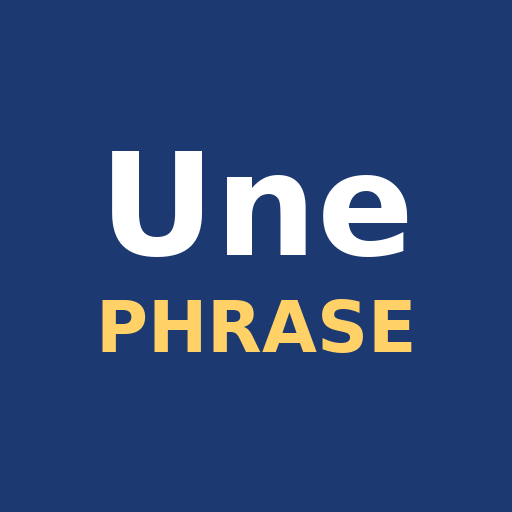
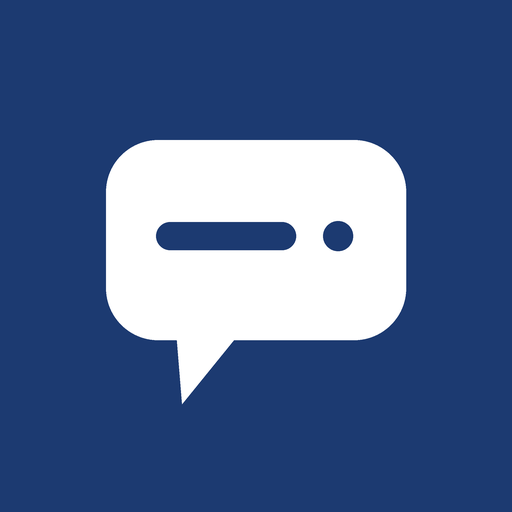
v1.31.0: 앱 개명 Une Phrase → One Phrase + 새 말풍선 아이콘
- 워드마크·title·og·공유 표기를 One Phrase로, 주소 표기는 one-phrase로 교체
- 아이콘: 파랑 둥근 사각형 + 흰 말풍선 + 파란 한 줄 선·마침표 마크 (소스 icons/icon.svg, PNG 4종·og-image 재생성)
- 헤더·푸터 로고 타일의 U 글자를 인라인 SVG 마크로 교체
- 내부 식별자(저장 키·IndexedDB·GoatCounter 코드)는 유지
- 테스트 366 PASS

Changed region(s): [[0.1875, 0.25, 0.8125, 0.7812], [0.6875, 0.375, 0.75, 0.4062]]

diff --git a/index.html b/index.html
@@ -8,20 +8,20 @@
 <link rel="apple-touch-icon" href="./icons/apple-touch-icon.png">
 <meta name="mobile-web-app-capable" content="yes">
 <meta name="apple-mobile-web-app-capable" content="yes">
-<title>Une Phrase — 한 문장 프랑스어 | 켜자마자 한 문장, TEF Canada</title>
+<title>One Phrase — 한 문장 프랑스어 | 켜자마자 한 문장, TEF Canada</title>
 <meta name="description" content="고르는 고민 없이, 켜자마자 미리 만들어진 프랑스어 한 문장을 읽고·따라 쓰고·가리고 쓰며 공부하는 앱. TEF Canada 전 영역 연결.">
-<meta property="og:title" content="Une Phrase — 한 문장 프랑스어">
+<meta property="og:title" content="One Phrase — 한 문장 프랑스어">
 <meta property="og:description" content="켜자마자 한 문장. TEF Canada와 일상 프랑스어를 3단계로 공부하는 앱.">
-<meta property="og:url" content="https://sidebatch.github.io/une-phrase/">
+<meta property="og:url" content="https://sidebatch.github.io/one-phrase/">
 <meta property="og:type" content="website">
 <meta property="og:locale" content="ko_KR">
-<meta property="og:image" content="https://sidebatch.github.io/une-phrase/og-image.png">
+<meta property="og:image" content="https://sidebatch.github.io/one-phrase/og-image.png">
 <meta property="og:image:width" content="1200">
 <meta property="og:image:height" content="630">
 <meta name="twitter:card" content="summary_large_image">
-<meta name="twitter:title" content="Une Phrase — 한 문장 프랑스어">
+<meta name="twitter:title" content="One Phrase — 한 문장 프랑스어">
 <meta name="twitter:description" content="켜자마자 한 문장. TEF Canada와 일상 프랑스어를 3단계로 공부하는 앱.">
-<meta name="twitter:image" content="https://sidebatch.github.io/une-phrase/og-image.png">
+<meta name="twitter:image" content="https://sidebatch.github.io/one-phrase/og-image.png">
 <script>
 /* 테마 조기 적용: 저장된 테마를 첫 페인트 전에 세팅해 새로고침 깜빡임을 막는다. 읽기 실패 시 라이트. */
 (function(){ try{
@@ -92,6 +92,7 @@ button:focus-visible,summary:focus-visible{outline:2px solid var(--blue-text);ou
 .masthead{border:0;border-radius:var(--r-xl);padding:var(--sp4) var(--sp4) 13px;background:linear-gradient(180deg,var(--mast-a) 0%,var(--mast-b) 92%);margin-bottom:2px;box-shadow:var(--shadow)}
 .brandrow{display:flex;align-items:center;gap:9px}
 .logo{display:inline-flex;align-items:center;justify-content:center;width:34px;height:34px;flex:0 0 auto;border-radius:var(--r-sm);background:var(--blue);color:#fff;font-size:19px;font-weight:900;line-height:1;box-shadow:inset 0 -3px 0 rgba(0,0,0,.22)}
+.logo svg{width:23px;height:23px;display:block}
 .wordmark{flex:1;min-width:0;font-weight:900;color:var(--blue-text);letter-spacing:.14em;font-size:15px;white-space:nowrap;overflow:hidden}
 .profilebtn{flex:0 0 auto;width:38px;height:38px;border-radius:50%;border:1px solid var(--line-soft);background:var(--soft);color:var(--avatar-ink);font-size:16px;font-weight:900;cursor:pointer;font:inherit;display:inline-flex;align-items:center;justify-content:center;padding:0;box-shadow:var(--shadow);transition:transform .12s var(--ease)}
 .profilebtn:active{transform:scale(.94)}
@@ -273,6 +274,7 @@ textarea:focus,input[type=text]:focus{border-color:var(--blue-text);box-shadow:v
 footer{margin-top:var(--sp6);border-top:1px solid var(--line-soft);padding:20px 16px 0;text-align:center}
 .footbrand{display:flex;align-items:center;justify-content:center;gap:8px}
 .footlogo{display:inline-flex;align-items:center;justify-content:center;width:24px;height:24px;border-radius:7px;background:var(--blue);color:#fff;font-size:13px;font-weight:900;line-height:1}
+.footlogo svg{width:15px;height:15px;display:block}
 .footword{font-weight:900;color:var(--blue-text);letter-spacing:.1em;font-size:13.5px}
 .footko{font-size:13px;color:var(--sub);font-weight:700}
 .footmeta{margin-top:var(--sp2);font-size:12.5px;color:var(--sub)}
@@ -296,7 +298,7 @@ summary{font-weight:800;cursor:pointer}
 <body>
 <div class="wrap">
 <header class="masthead">
-<div class="brandrow"><span class="logo" aria-hidden="true">U</span><span class="wordmark">UNE PHRASE</span><button class="profilebtn" id="profileBtn" aria-label="내 정보" aria-haspopup="dialog"><svg viewBox="0 0 24 24" fill="none" stroke="currentColor" stroke-width="1.9" stroke-linecap="round" stroke-linejoin="round" aria-hidden="true"><circle cx="12" cy="8" r="3.6"/><path d="M5.2 19.8c.8-3.6 3.4-5.4 6.8-5.4s6 1.8 6.8 5.4"/></svg></button><button class="menubtn" id="menuBtn" aria-haspopup="dialog" aria-expanded="false">☰ 메뉴</button></div>
+<div class="brandrow"><span class="logo" aria-hidden="true"><svg viewBox="0 0 24 24" aria-hidden="true"><rect x="2.4" y="4.2" width="19.2" height="12.8" rx="3.4" fill="#fff"/><polygon points="6.1,16.6 9.9,16.6 6.3,21" fill="#fff"/><rect x="5.6" y="9.55" width="8.8" height="1.9" rx=".95" fill="#1C3A71"/><circle cx="17.3" cy="10.5" r=".95" fill="#1C3A71"/></svg></span><span class="wordmark">ONE PHRASE</span><button class="profilebtn" id="profileBtn" aria-label="내 정보" aria-haspopup="dialog"><svg viewBox="0 0 24 24" fill="none" stroke="currentColor" stroke-width="1.9" stroke-linecap="round" stroke-linejoin="round" aria-hidden="true"><circle cx="12" cy="8" r="3.6"/><path d="M5.2 19.8c.8-3.6 3.4-5.4 6.8-5.4s6 1.8 6.8 5.4"/></svg></button><button class="menubtn" id="menuBtn" aria-haspopup="dialog" aria-expanded="false">☰ 메뉴</button></div>
 <h1>한 문장 프랑스어</h1>
 <div class="progress" id="progressArea">
 <div class="progress-top"><span id="progressLine">불러오는 중…</span><span class="todaychip" id="todayChip">오늘 0문장</span></div>
@@ -309,7 +311,7 @@ summary{font-weight:800;cursor:pointer}
 <div class="menubackdrop" id="menuBackdrop"></div>
 <div class="menupanel" role="dialog" aria-modal="true" aria-label="메뉴">
 <div class="menuhandle" aria-hidden="true"></div>
-<div class="menuhead"><span class="menuword">UNE PHRASE</span></div>
+<div class="menuhead"><span class="menuword">ONE PHRASE</span></div>
 <button class="menurow on" data-menu="study"><span class="menutile t-study" aria-hidden="true"><svg viewBox="0 0 24 24" fill="none" stroke="currentColor" stroke-width="1.9" stroke-linecap="round" stroke-linejoin="round"><path d="M12 6.2C10.2 4.7 8 4.1 5.5 4.1c-.6 0-1 .4-1 1v13.2c0 .6.4 1 1 1 2.5 0 4.7.6 6.5 2.1 1.8-1.5 4-2.1 6.5-2.1.6 0 1-.4 1-1V5.1c0-.6-.4-1-1-1-2.5 0-4.7.6-6.5 2.1z"/><path d="M12 6.2v13.2"/></svg></span><span class="menutext"><span class="menulabel">공부하기</span><span class="menusub">이어서 바로 공부</span></span><span class="menudot" aria-hidden="true"></span></button>
 <button class="menurow" data-menu="browse"><span class="menutile t-browse" aria-hidden="true"><svg viewBox="0 0 24 24" fill="none" stroke="currentColor" stroke-width="1.9" stroke-linecap="round" stroke-linejoin="round"><path d="M12 3.4 21 8.3l-9 4.9L3 8.3l9-4.9z"/><path d="M3.9 12.9 12 17.3l8.1-4.4"/><path d="M3.9 16.9 12 21.3l8.1-4.4"/></svg></span><span class="menutext"><span class="menulabel">주제별</span><span class="menusub">주제 골라 보기</span></span><span class="menudot" aria-hidden="true" hidden></span></button>
 <button class="menurow" data-menu="words"><span class="menutile t-words" aria-hidden="true"><svg viewBox="0 0 24 24" fill="none" stroke="currentColor" stroke-width="1.9" stroke-linecap="round" stroke-linejoin="round"><rect x="3.6" y="3.6" width="16.8" height="16.8" rx="3.6"/><path d="M8.4 16.6 12 8.6l3.6 8"/><path d="M9.8 13.7h4.4"/></svg></span><span class="menutext"><span class="menulabel">단어</span><span class="menusub">단어 모아 보기</span></span><span class="menudot" aria-hidden="true" hidden></span></button>
@@ -388,7 +390,7 @@ summary{font-weight:800;cursor:pointer}
 <details><summary>공유하기</summary>
 <p>프랑스어를 공부하는 사람에게 알려 주세요.</p>
 <button class="ghost" id="shareBtn">🔗 이 앱 공유하기</button>
-<p id="shareLink" hidden>https://sidebatch.github.io/une-phrase/</p>
+<p id="shareLink" hidden>https://sidebatch.github.io/one-phrase/</p>
 </details>
 <details><summary>진행 기록 보관</summary>
 <p id="vaultState">보관 상태 확인 중…</p>
@@ -399,13 +401,13 @@ summary{font-weight:800;cursor:pointer}
 </div>
 
 <footer>
-<div class="footbrand"><span class="footlogo" aria-hidden="true">U</span><span class="footword">UNE PHRASE</span><span class="footko">한 문장 프랑스어</span></div>
-<div class="footmeta">v1.30.0 · © 2026 sidebatch</div>
+<div class="footbrand"><span class="footlogo" aria-hidden="true"><svg viewBox="0 0 24 24" aria-hidden="true"><rect x="2.4" y="4.2" width="19.2" height="12.8" rx="3.4" fill="#fff"/><polygon points="6.1,16.6 9.9,16.6 6.3,21" fill="#fff"/><rect x="5.6" y="9.55" width="8.8" height="1.9" rx=".95" fill="#1C3A71"/><circle cx="17.3" cy="10.5" r=".95" fill="#1C3A71"/></svg></span><span class="footword">ONE PHRASE</span><span class="footko">한 문장 프랑스어</span></div>
+<div class="footmeta">v1.31.0 · © 2026 sidebatch</div>
 </footer>
 </div>
 <script>
 "use strict";
-const APP_VERSION = "1.30.0";
+const APP_VERSION = "1.31.0";
 const STORAGE_KEY = "une-phrase-progress-v1";
 const SUPABASE_URL = "https://cmhitsgoicxvmlwtrdrb.supabase.co";
 const SUPABASE_KEY = "sb_publishable_iZugJ1l1p3DSk_BB2Y3N3Q_qZwSo637";
@@ -1619,9 +1621,9 @@ document.getElementById("exportBtn").onclick = ()=>{
   const blob = new Blob([JSON.stringify(progress,null,2)],{type:"application/json"});
   const a = document.createElement("a"); a.href = URL.createObjectURL(blob); a.download = "une-phrase-progress.json"; a.click();
 };
-const SHARE_TITLE = "Une Phrase — 한 문장 프랑스어";
+const SHARE_TITLE = "One Phrase — 한 문장 프랑스어";
 const SHARE_TEXT = "켜면 바로 시작하는 프랑스어 한 문장 공부";
-const SHARE_URL = "https://sidebatch.github.io/une-phrase/";
+const SHARE_URL = "https://sidebatch.github.io/one-phrase/";
 const SHARE_BTN_LABEL = "🔗 이 앱 공유하기";
 function shareApp(){
   if(navigator.share){

diff --git a/sw.js b/sw.js
@@ -1,5 +1,5 @@
-/* Une Phrase - 오프라인용 서비스 워커 (네트워크 우선) */
-const CACHE = 'une-phrase-v1.30.0';
+/* One Phrase - 오프라인용 서비스 워커 (네트워크 우선) */
+const CACHE = 'une-phrase-v1.31.0';
 const ASSETS = [
   './',
   './index.html',

diff --git a/README.md b/README.md
@@ -1,12 +1,14 @@
-# Une Phrase — 한 문장 프랑스어
+# One Phrase — 한 문장 프랑스어
 
-## ▶ 바로 열기: https://sidebatch.github.io/une-phrase/
+## ▶ 바로 열기: https://sidebatch.github.io/one-phrase/
+
+(옛 주소 https://sidebatch.github.io/une-phrase/ 로 들어와도 새 주소로 자동 이동합니다.)
 
 켜자마자 **미리 만들어진 프랑스어 한 문장**이 바로 나오는 학습 앱.
 고르는 고민도, 직접 만드는 부담도 없이 — 읽고, 따라 쓰고, 가리고 쓰면 한 문장이 끝난다.
 콘텐츠는 TEF Canada 준비와 캐나다 일상생활에 바로 쓸 수 있는 문장으로 구성했다.
 
-버전: v1.30.0
+버전: v1.31.0
 
 ## 어떻게 쓰나요
 
@@ -17,9 +19,10 @@
 기본은 **한 문장만**이다. 끝내면 완료 화면이 나오고, 원하면 "한 문장 더"를 누른다.
 멈춘 자리에서 자동으로 이어진다. 화면 이동은 헤더의 "☰ 메뉴"로만 하고, 주제별·단어 화면이 보조로 있다.
 
-## 콘텐츠 현황 (v1.30.0)
+## 콘텐츠 현황 (v1.31.0)
 
 - 문장 286개 (주제 10종, 레벨 A2 88개 · B1 96개 · B2 102개), 핵심 단어 572개
+- v1.31.0: 앱 개명 Une Phrase → **One Phrase** (콘텐츠·학습 동작·저장 키 변경 없음) — 프랑스어·영어·스페인어로 학습 언어를 넓히기 위한 준비로 이름을 언어 중립적으로 바꾸고, 리포도 sidebatch/one-phrase로 개명 (옛 주소는 새 주소로 자동 이동). 아이콘을 새 마크로 교체: 브랜드 파랑(#1C3A71) 둥근 사각형에 흰 말풍선, 그 안에 파란 한 줄 선 + 마침표(한 문장 상징). 아이콘 소스 SVG(icons/icon.svg)를 남기고 PNG 4종(icon-192·icon-512·apple-touch-icon·maskable-512)과 og-image를 같은 마크로 재생성, 헤더·푸터 로고 타일의 "U" 글자도 인라인 SVG 마크로 교체. 내부 식별자(저장 키 une-phrase-progress-v1, IndexedDB 보관함, GoatCounter 코드)는 데이터 연속성을 위해 유지
 - v1.30.0: 듣기·표시 다듬기 (콘텐츠 변경 없음) — ① 듣기 지연 개선: 음성 목록을 시작 시 미리 읽고 voiceschanged로 캐시해 두며, fr 음성 중 로컬(localService) 음성을 우선 선택. 누를 때마다 걸던 고정 120ms 대기를 없애고, 실제로 재생/대기 중일 때만 40ms만 기다린 뒤 speak 직전 resume()을 호출. 첫 pointerdown에 무음 발화로 엔진을 예열 ② 재생 중 표시: 듣기·느리게 듣기(단어 버튼 포함)를 누르면 발화가 끝날 때까지 버튼이 파랗게 채워지고, 종료·오류·길이 추정 안전 타이머 중 먼저 오는 것으로 해제. 단계·화면을 바꾸면 해제 ③ 내 정보의 구글 이메일은 기본 마스킹(go***@gmail.com)으로 표시하고 탭하면 전체 표시/다시 가리기 ④ 공부하기 레벨 표시줄에 현재 레벨 메달을 함께 표시 ⑤ 레벨 곡선 강화: 임계값을 0·30·90·190·350·590·940·1420·2080·2900으로 바꿔 레벨 간 필요 XP 간격이 단조 증가하게 함 (전 문장 완료 2860 XP는 Lv.9, 복습을 조금 더하면 Lv.10) ⑥ 아이콘을 직접 그린 인라인 SVG로 교체: 메뉴 타일 5종(책·레이어·글자 블록·사람 둘·점 셋), 듣기/느리게 듣기 스피커(파형 수와 0.7 표기로 구분), 게스트 아바타·Ensemble 히어로의 사람 실루엣. 레벨 메달 이모지와 U 로고는 유지
 - v1.29.0: 완성도 개편 (콘텐츠·학습 동작 변경 없음) — ① 테마 가시성 전수 검수: 딤 오버레이·시트 그림자·입력 포커스 링·diff 밑줄·완료 서클 그림자·금색 그라데이션 끝 색을 CSS 변수(--dim 등)로 빼 세 테마 모두에서 깨지지 않게 하고, 페이퍼 전용 메뉴 타일 파스텔을 추가 (고정 유지: 브랜드 로고 색, 진한 배경 위 흰 글자, 테마 견본 색) ② 레벨 메달 추가: Lv.1 🌱부터 Lv.10 👑까지 메달을 내 정보 창과 Ensemble 배지 옆에 표시 ③ "내 정보" 신설: 헤더 아바타 버튼(닉네임 첫 글자/게스트 👤)을 누르면 바텀시트에 메달·레벨·XP 진행·완료 수·복습 맞힘·이메일·로그아웃(비로그인은 로컬 통계 + 구글로 시작하기) 표시 ④ "설명" 탭을 "더보기"로 개명하고 문구를 섹션당 1~2줄로 축소·현행화 (TEF Canada 연결 섹션 삭제 → 일상 프랑스어 앱 한 줄, 기록 보관은 기기 저장 + 로그인 시 서버 보관으로 교체, Ensemble 안내 추가) ⑤ 버전 표기는 푸터에만 남기고 헤더 칩·메뉴 헤더 표기 제거 ⑥ 방문 카운트(GoatCounter 누적)를 헤더에서 Ensemble 화면 상단으로 옮기고 "👥 지금까지 N명이 다녀갔어요" 라벨과 함께 표시
 - v1.28.0: 테마 3종 추가 (콘텐츠 변경 없음) — 설명 탭 "테마"에서 라이트(기본)·블랙·페이퍼 중 선택. 블랙은 배경 #050607 수준의 진한 다크로 밤 공부·OLED용, 페이퍼는 크림색(#f6efe3) 종이 느낌. 표면 색을 CSS 변수로 빼서 테마별로 바꾸고, 파스텔 아이콘 타일·아바타는 블랙에서 어두운 변형으로 표시. 선택은 진행 기록의 theme 필드에 저장돼 새로고침 시 첫 페인트 전에 적용되므로 깜빡임이 없고, 기기별 설정이라 Ensemble 동기화 페이로드에는 포함되지 않음
